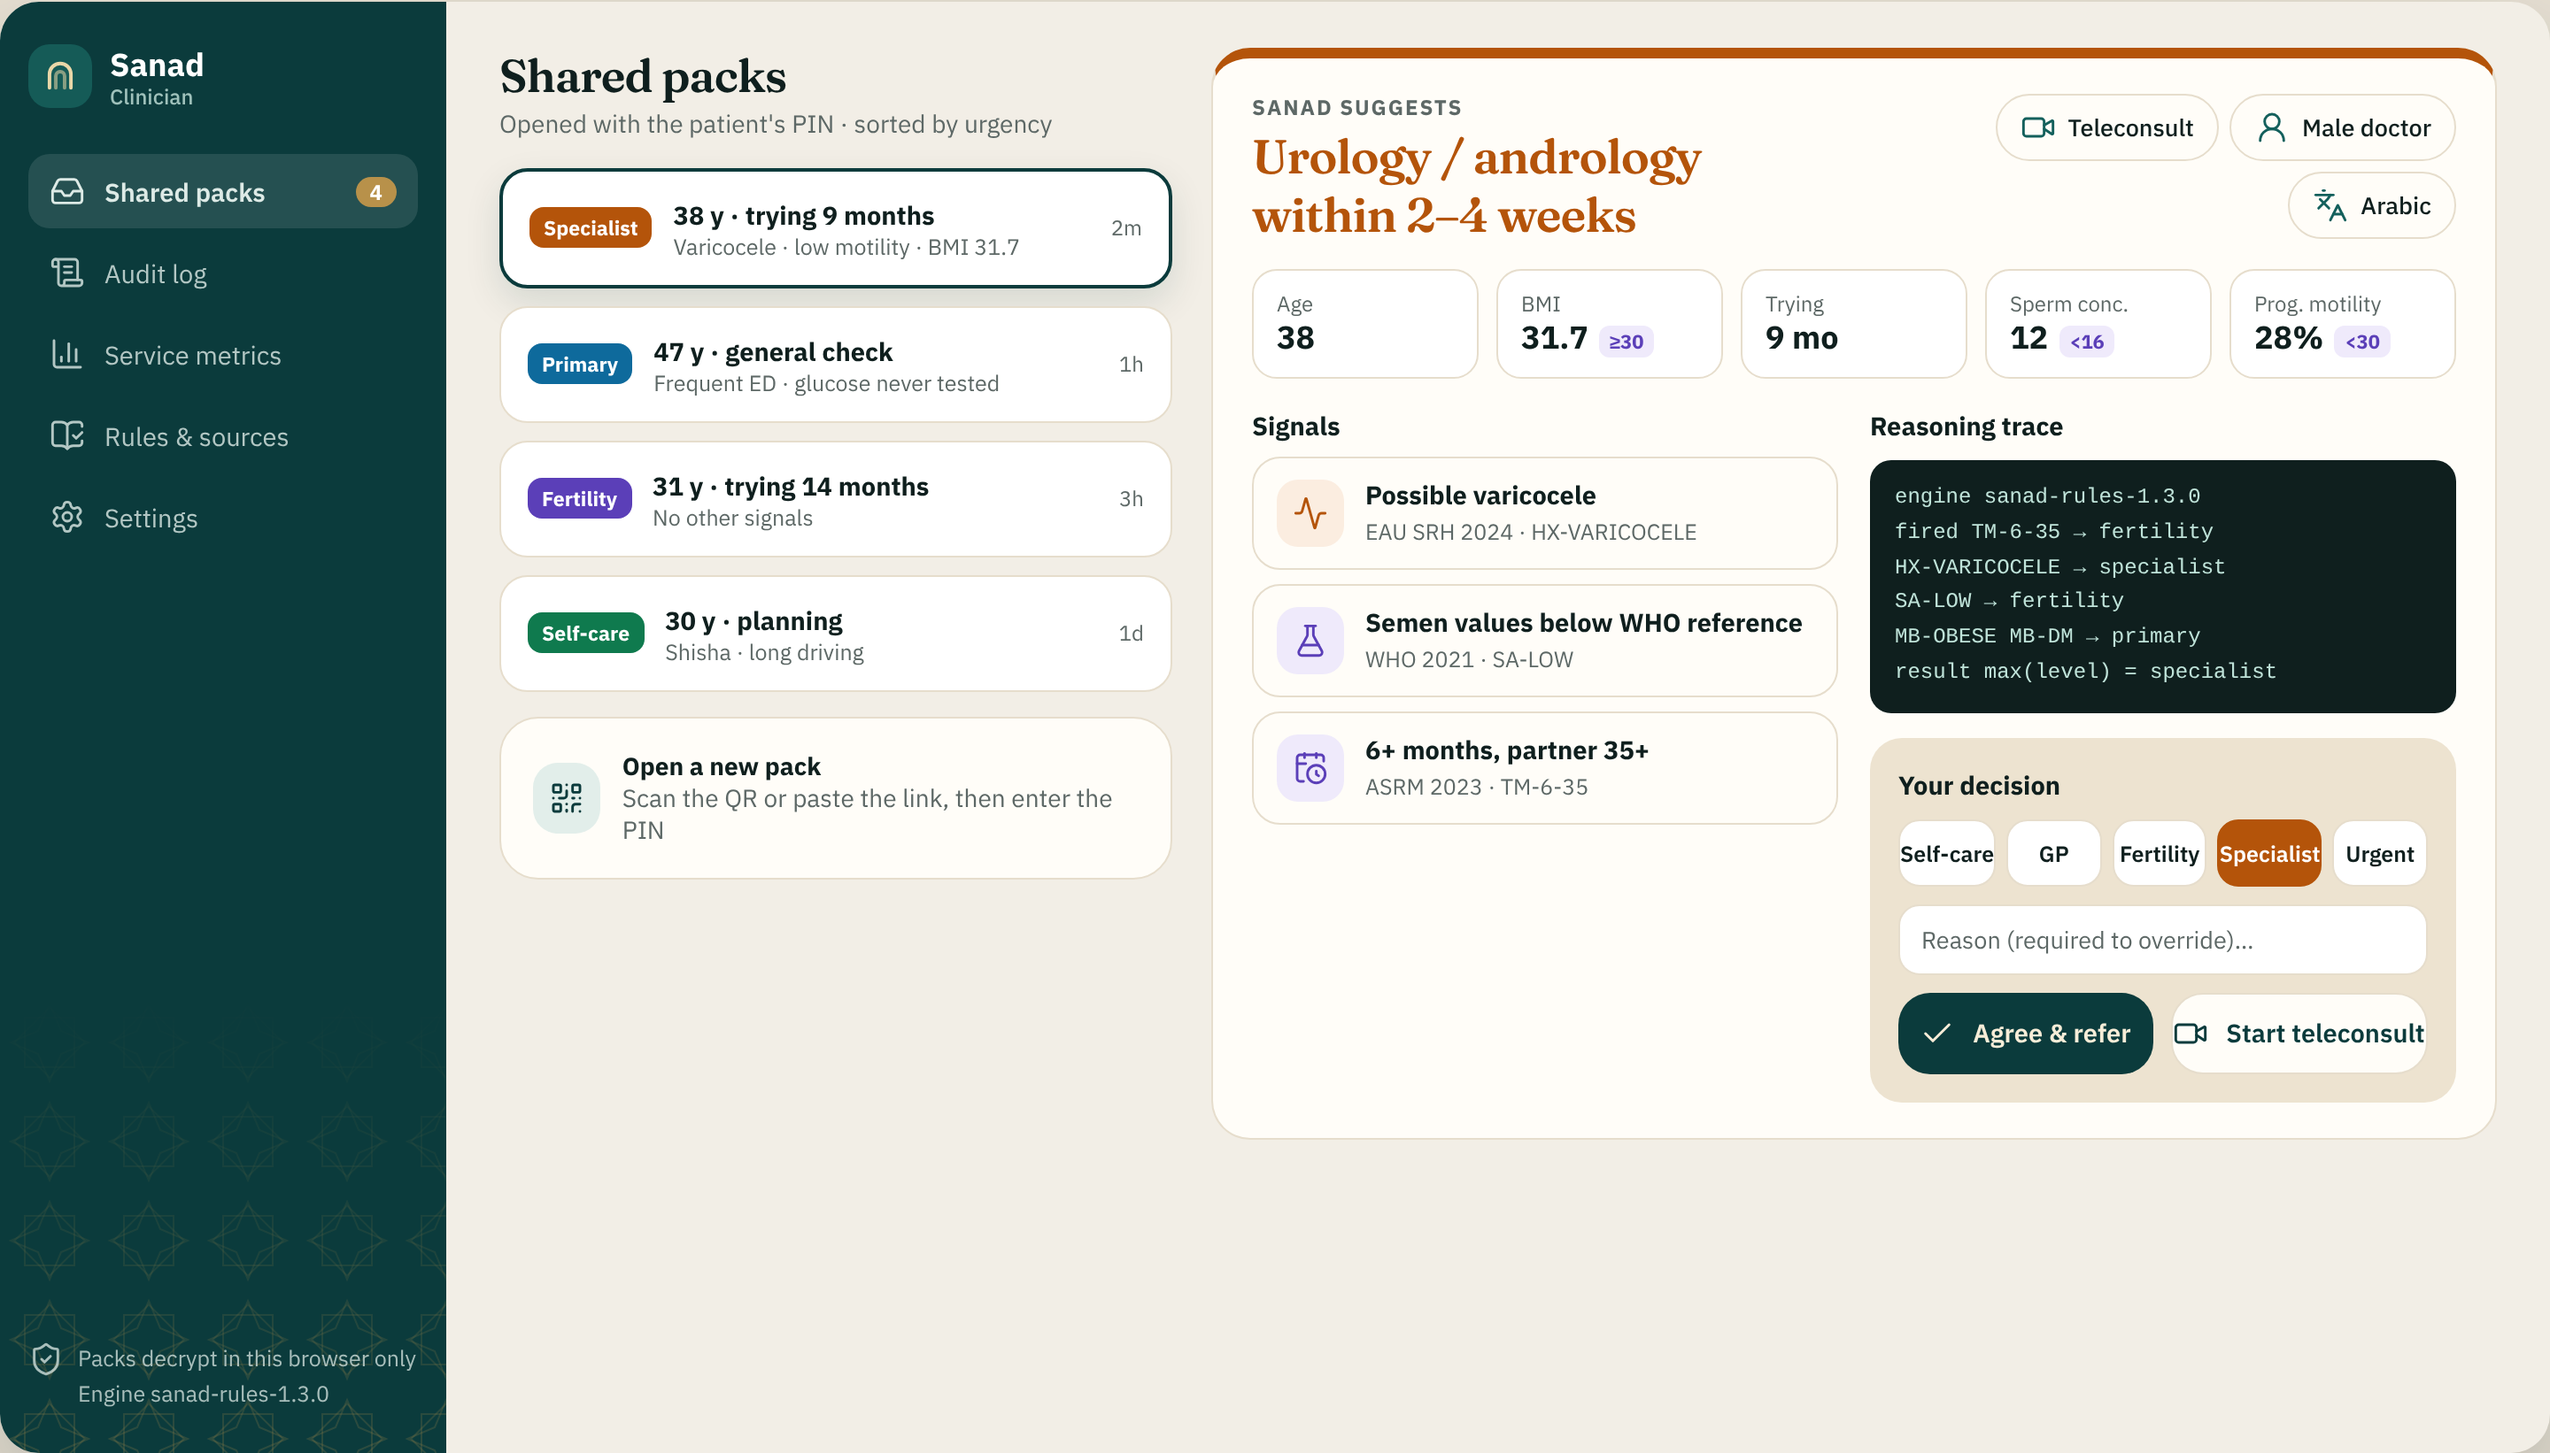
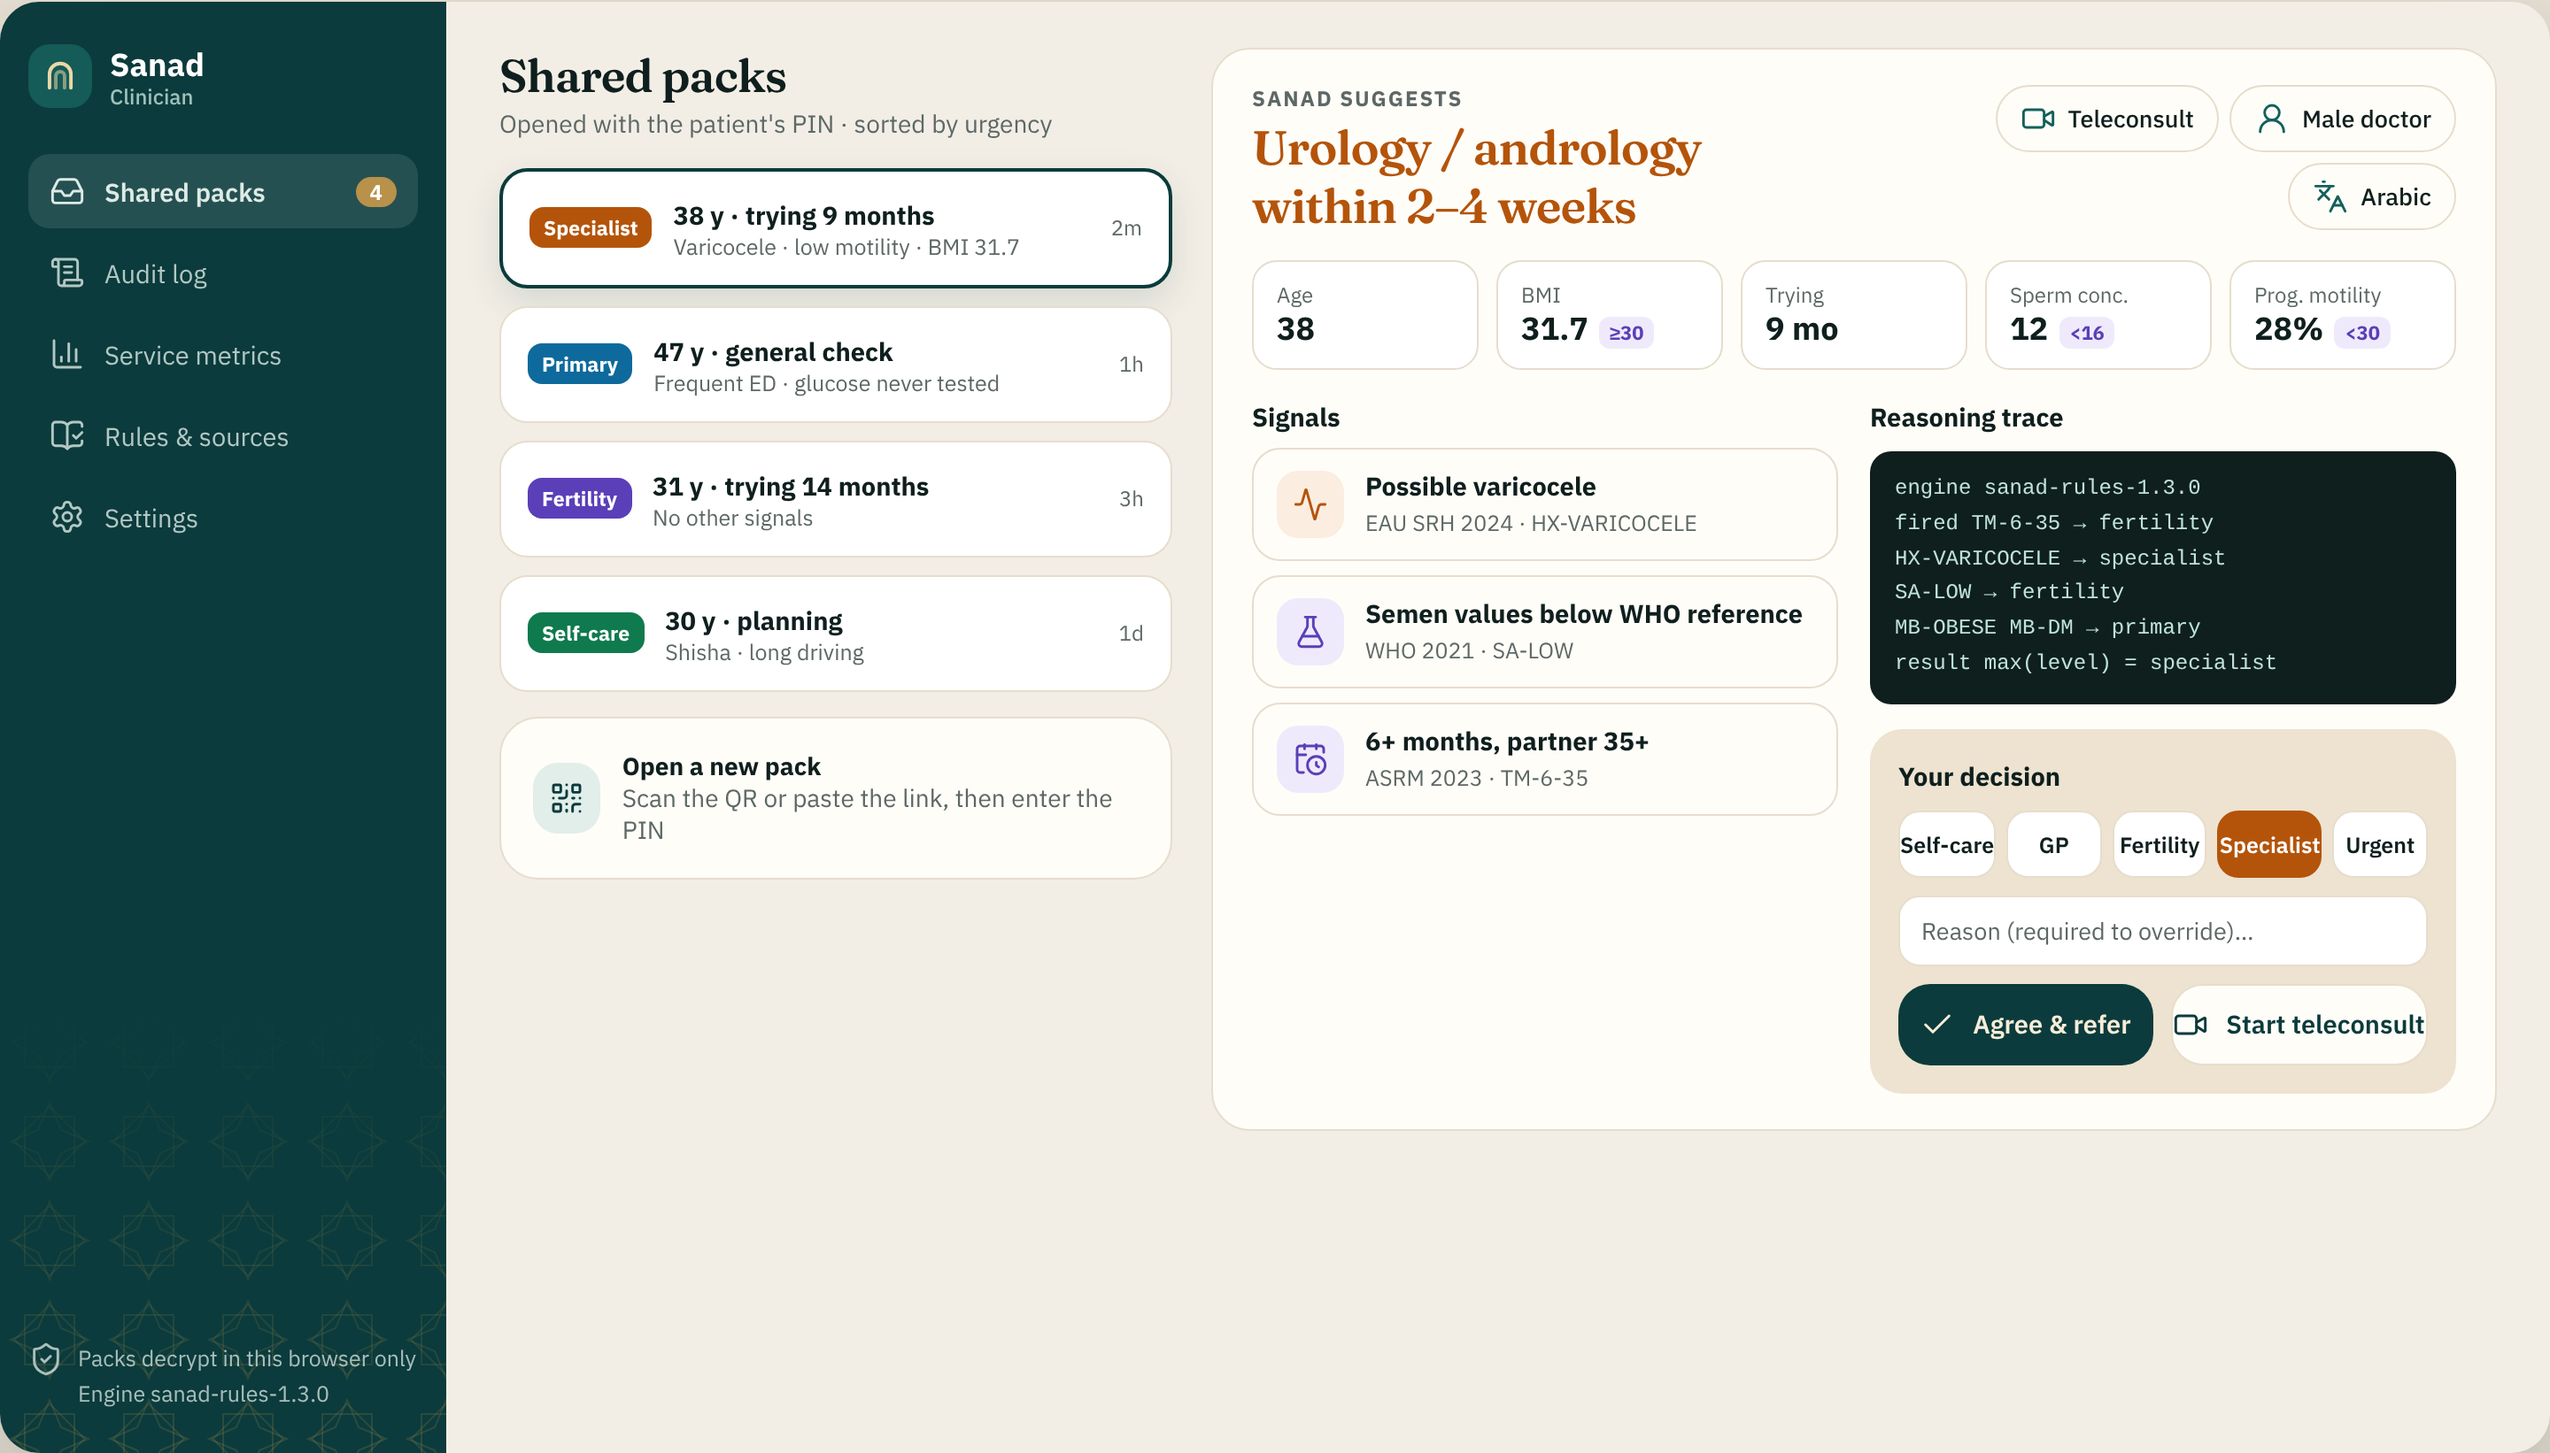
Clinician view: drop coloured top border on suggestion card

diff --git a/mockups/v3.src.html b/mockups/v3.src.html
@@ -393,7 +393,7 @@ svg.ic{width:20px;height:20px;stroke-width:1.75;flex:none}
       <div class="qitem"><span class="lv" style="background:var(--sc)">Self-care</span><div><b style="font-size:14.5px">30 y · planning</b><div class="muted" style="font-size:12.5px">Shisha · long driving</div></div><span class="muted" style="margin-left:auto;font-size:12px">1d</span></div>
       <div class="card" style="margin-top:14px;display:flex;gap:12px;align-items:center"><span class="iconbtn" style="background:var(--g3);border:none">{{qr-code}}</span><div style="font-size:14px"><b>Open a new pack</b><div class="muted">Scan the QR or paste the link, then enter the PIN</div></div></div>
     </div>
-    <div class="card" style="border-top:6px solid var(--sp);padding:20px 22px;align-self:start">
+    <div class="card" style="padding:20px 22px;align-self:start">
       <div style="display:flex;justify-content:space-between;gap:16px;align-items:flex-start">
         <div><p class="muted" style="font-size:12px;font-weight:700;letter-spacing:.08em">SANAD SUGGESTS</p><h2 class="serif" style="font-size:27px;color:var(--sp);margin-top:4px">Urology / andrology <span style="white-space:nowrap">within 2–4 weeks</span></h2></div>
         <div style="display:flex;gap:6px;flex-wrap:wrap;justify-content:flex-end;max-width:330px"><span class="chip">{{video}} Teleconsult</span><span class="chip">{{user-round}} Male doctor</span><span class="chip">{{languages}} Arabic</span></div>

diff --git a/mockups/v3.html b/mockups/v3.html
@@ -2068,7 +2068,7 @@ svg.ic{width:20px;height:20px;stroke-width:1.75;flex:none}
   <path d="M12 21v-1" />
 </svg></span><div style="font-size:14px"><b>Open a new pack</b><div class="muted">Scan the QR or paste the link, then enter the PIN</div></div></div>
     </div>
-    <div class="card" style="border-top:6px solid var(--sp);padding:20px 22px;align-self:start">
+    <div class="card" style="padding:20px 22px;align-self:start">
       <div style="display:flex;justify-content:space-between;gap:16px;align-items:flex-start">
         <div><p class="muted" style="font-size:12px;font-weight:700;letter-spacing:.08em">SANAD SUGGESTS</p><h2 class="serif" style="font-size:27px;color:var(--sp);margin-top:4px">Urology / andrology <span style="white-space:nowrap">within 2–4 weeks</span></h2></div>
         <div style="display:flex;gap:6px;flex-wrap:wrap;justify-content:flex-end;max-width:330px"><span class="chip"><svg
